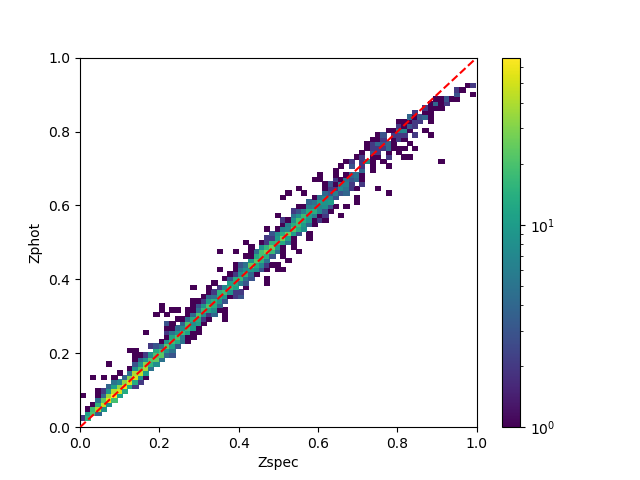
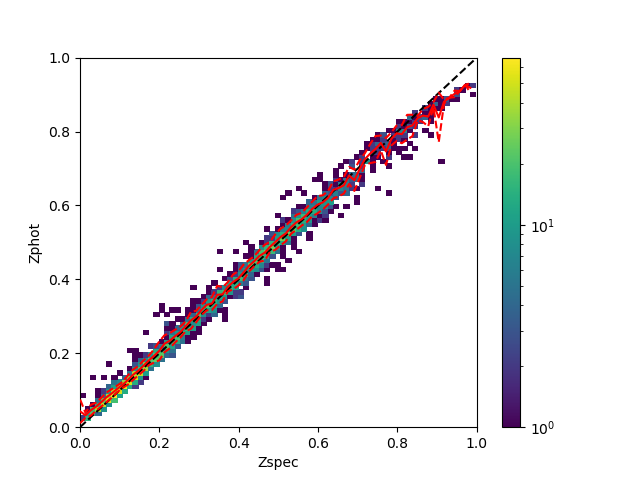
Added SD to heatmaps

Changed region(s): [[0.125, 0.125, 0.75, 0.9062]]

diff --git a/machine_learning/random_forest_regression.py b/machine_learning/random_forest_regression.py
@@ -7,6 +7,7 @@ from sklearn.preprocessing import MinMaxScaler, StandardScaler
 import joblib as joblib
 import glob as glob
 import os as os
+from matplotlib.colors import LogNorm
 
 
 data_input_folder = '/projects/b1053/joe/photoz/crossmatching/filtered_output/*.csv'
@@ -50,8 +51,6 @@ z_std = np.sqrt(scaler.var_[-1])
 # Split our data set into a training and testing set in order to test our model performance
 X_train, X_test, y_train, y_test = train_test_split(data[training_features], data[predictor], test_size=0.8, random_state=42)
 
-print(X_train)
-
 # Define the random forest model
 RF_reg = RandomForestRegressor(n_estimators=500, random_state=42, verbose=2, n_jobs=-1)
 # Fit the model with the training data
@@ -75,18 +74,78 @@ print('The average bias is: {}'.format(np.average(bias)))
 print('The bias with outliars removed is: {}'.format(np.average(filtered_bias)))
 print('The outlier percentage is: {}%'.format(100.*(len(bias)-len(filtered_bias))/len(bias)))
 
+outfolder = 'plots/'
+
+# Plot training data spectroscopic and photometric redshift
 plt.scatter(y_train, train_predict)
 plt.plot(y_train, y_train)
 plt.xlabel('Zspec')
 plt.ylabel('Zphot')
-plt.savefig('test.png')
+plt.savefig(outfolder + 'test.png')
+plt.clf()
+
+# Heatmap of above
+fig, ax = plt.subplots()
+nbins = 75
+h = ax.hist2d(y_train, train_predict, bins=(nbins, nbins), norm=LogNorm())
+
+plt.xlabel('Zspec')
+plt.ylabel('Zphot')
+fig.colorbar(h[3], ax=ax)
+lims = [
+    np.min([ax.get_xlim(), ax.get_ylim()]),  # min of both axes
+    np.max([ax.get_xlim(), ax.get_ylim()]),  # max of both axes
+]
+plt.plot(lims, lims, linestyle='--', color='black', zorder=100)
+plt.xlim(0, 1)
+plt.ylim(0, 1)
+
+# Add in 1 standard deviation lines
+stds = []
+means = []
+for i in range(len(h[1]) - 1):
+    stds.append(np.std(train_predict[(y_train >= h[1][i]) & (y_train < h[1][i+1])]))
+    means.append(np.average(train_predict[(y_train >= h[1][i]) & (y_train < h[1][i+1])]))
+means, stds = np.asarray(means), np.asarray(stds)
+plt.plot(h[1][:-1], means + 1.*stds, linestyle='--', color='red', zorder=100)
+plt.plot(h[1][:-1], means - 1.*stds, linestyle='--', color='red', zorder=100)
+plt.plot(h[1][:-1], means, color='red', zorder=100)
+
+plt.savefig(outfolder + 'hist.png')
 plt.clf()
 
 plt.scatter(y_test, test_predict)
 plt.plot(y_test, y_test)
 plt.xlabel('Zspec')
 plt.ylabel('Zphot')
-plt.savefig('test2.png')
+plt.savefig(outfolder + 'test2.png')
+plt.clf()
+
+fig, ax = plt.subplots()
+h = plt.hist2d(y_test, test_predict, bins=(nbins, nbins), norm=LogNorm())
+plt.xlabel('Zspec')
+plt.ylabel('Zphot')
+fig.colorbar(h[3], ax=ax)
+lims = [
+    np.min([ax.get_xlim(), ax.get_ylim()]),  # min of both axes
+    np.max([ax.get_xlim(), ax.get_ylim()]),  # max of both axes
+]
+plt.plot(lims, lims, linestyle='--', color='black', zorder=100)
+plt.xlim(0, 1)
+plt.ylim(0, 1)
+
+# Add in 1 standard deviation lines
+stds = []
+means = []
+for i in range(len(h[1]) - 1):
+    stds.append(np.std(test_predict[(y_test >= h[1][i]) & (y_test < h[1][i+1])]))
+    means.append(np.average(test_predict[(y_test >= h[1][i]) & (y_test < h[1][i+1])]))
+means, stds = np.asarray(means), np.asarray(stds)
+plt.plot(h[1][:-1], means + 1.*stds, linestyle='--', color='red', zorder=100)
+plt.plot(h[1][:-1], means - 1.*stds, linestyle='--', color='red', zorder=100)
+plt.plot(h[1][:-1], means, color='red', zorder=100)
+
+plt.savefig(outfolder + 'hist2.png')
 plt.clf()
 
 plt.scatter(y_test, bias)
@@ -94,6 +153,6 @@ plt.axhline(-3. * bias_std)
 plt.axhline(3. * bias_std)
 plt.xlabel('Zspec')
 plt.ylabel('Bias')
-plt.savefig('bias.png')
+plt.savefig(outfolder + 'bias.png')
 
 joblib.dump(RF_reg, './models/test_model.joblib')

diff --git a/crossmatching/filtering.py b/crossmatching/filtering.py
@@ -11,17 +11,29 @@ xmatched = xmatched.sample(frac=1, random_state=42).reset_index(drop=True)
 
 # Only keep primary detections
 filtered_xmatched = xmatched[xmatched['primaryDetection'] == 1]
-# Only keep redshifts above 0
-filtered_xmatched = filtered_xmatched[filtered_xmatched['z'] > 0]
+# Only keep redshifts above 0 and below 1
+filtered_xmatched = filtered_xmatched[filtered_xmatched['z'] > 0.]
+filtered_xmatched = filtered_xmatched[filtered_xmatched['z'] < 1.]
 # Filter classes
 filtered_xmatched = filtered_xmatched[filtered_xmatched['class'] == 'GALAXY']
 # Filter stars
 filtered_xmatched = filtered_xmatched[filtered_xmatched['ps1dr2_p_star'] < 0.5]
 
-filtered_xmatched['unwise_w1_mag_ab'] = filtered_xmatched.replace('None', np.nan)
+filtered_xmatched['gmomentXX'] = filtered_xmatched['gmomentXX'].fillna(np.average(filtered_xmatched['gmomentXX'][~filtered_xmatched['gmomentXX'].isnull()]))
+filtered_xmatched['gmomentXY'] = filtered_xmatched['gmomentXY'].fillna(np.average(filtered_xmatched['gmomentXY'][~filtered_xmatched['gmomentXY'].isnull()]))
+filtered_xmatched['rmomentXX'] = filtered_xmatched['rmomentXX'].fillna(np.average(filtered_xmatched['rmomentXX'][~filtered_xmatched['rmomentXX'].isnull()]))
+filtered_xmatched['rmomentXY'] = filtered_xmatched['rmomentXY'].fillna(np.average(filtered_xmatched['rmomentXY'][~filtered_xmatched['rmomentXY'].isnull()]))
+filtered_xmatched['imomentXX'] = filtered_xmatched['imomentXX'].fillna(np.average(filtered_xmatched['imomentXX'][~filtered_xmatched['imomentXX'].isnull()]))
+filtered_xmatched['imomentXY'] = filtered_xmatched['imomentXY'].fillna(np.average(filtered_xmatched['imomentXY'][~filtered_xmatched['imomentXY'].isnull()]))
+filtered_xmatched['zmomentXX'] = filtered_xmatched['zmomentXX'].fillna(np.average(filtered_xmatched['zmomentXX'][~filtered_xmatched['zmomentXX'].isnull()]))
+filtered_xmatched['zmomentXY'] = filtered_xmatched['zmomentXY'].fillna(np.average(filtered_xmatched['zmomentXY'][~filtered_xmatched['zmomentXY'].isnull()]))
+filtered_xmatched['ymomentXX'] = filtered_xmatched['ymomentXX'].fillna(np.average(filtered_xmatched['ymomentXX'][~filtered_xmatched['ymomentXX'].isnull()]))
+filtered_xmatched['ymomentXY'] = filtered_xmatched['ymomentXY'].fillna(np.average(filtered_xmatched['ymomentXY'][~filtered_xmatched['ymomentXY'].isnull()]))
+
+filtered_xmatched['unwise_w1_mag_ab'] = filtered_xmatched['unwise_w1_mag_ab'].replace('None', np.nan)
 filtered_xmatched['unwise_w1_mag_ab'] = pd.to_numeric(filtered_xmatched['unwise_w1_mag_ab'])
 
-filtered_xmatched['unwise_w2_mag_ab'] = filtered_xmatched.replace('None', np.nan)
+filtered_xmatched['unwise_w2_mag_ab'] = filtered_xmatched['unwise_w2_mag_ab'].replace('None', np.nan)
 filtered_xmatched['unwise_w2_mag_ab'] = pd.to_numeric(filtered_xmatched['unwise_w2_mag_ab'])
 
 # Fill nans with the average of the parameter
